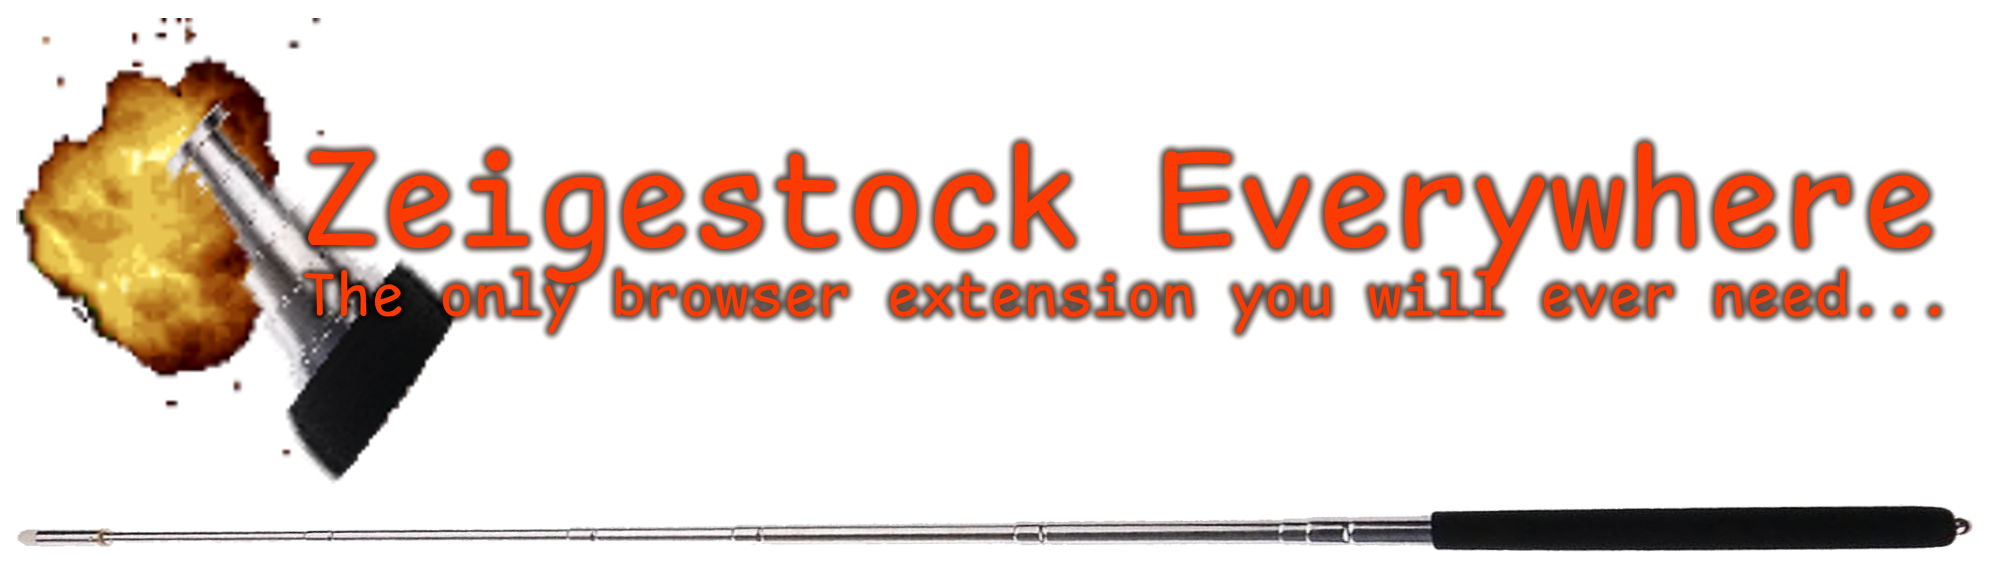
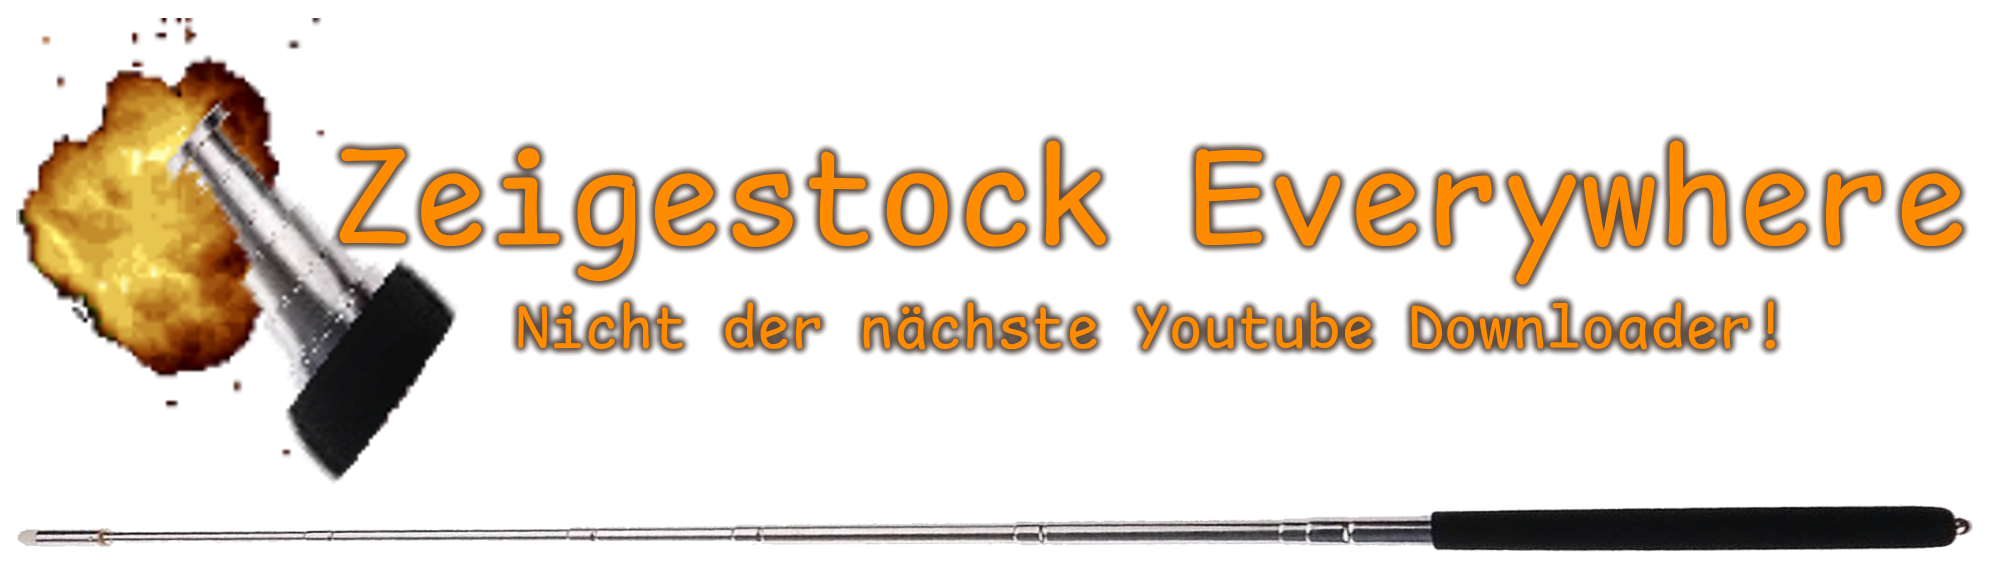
update branding and remove ff notice

Changed region(s): [[0.124, 0.2365, 0.992, 0.6209]]

diff --git a/README.md b/README.md
@@ -15,8 +15,3 @@ But have you considered how fun having a *Zeigestock* literally ***everywhere***
 
 Licensed under [**CC BY-SA 4.0**](./LICENSE.md)...
 
-## Firefox
-
-Firefox requires signing Extensions.
-Either sign your copy or disable `xpinstall.signatures.required` in `about:config`
-